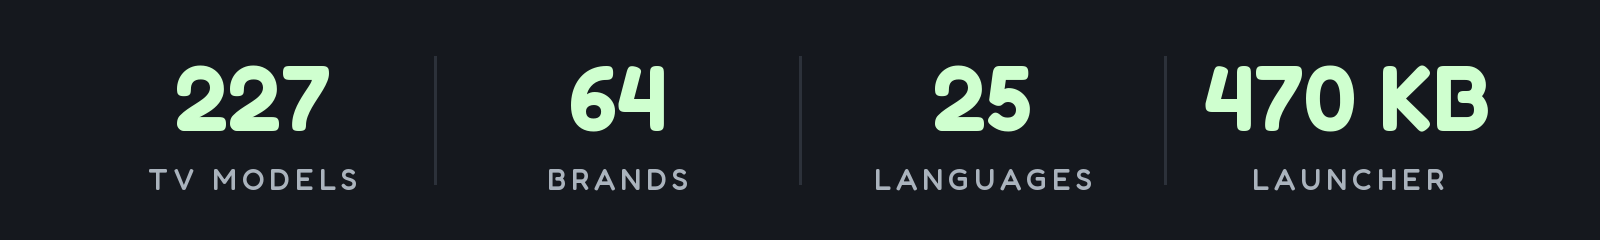
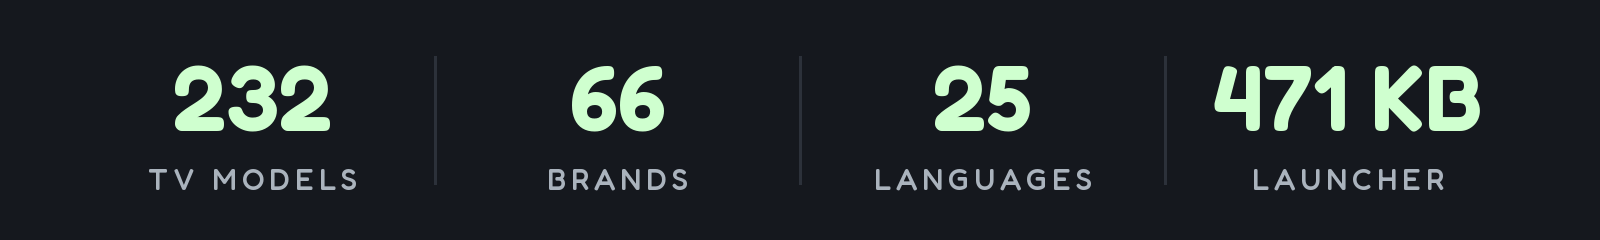
README: counts and card after Round Q (232 TV models, 66 brands, 471 KB launcher)
New brand: Grundig.

Changed region(s): [[0.75, 0.2625, 0.9375, 0.5542], [0.0938, 0.2625, 0.2188, 0.5542], [0.375, 0.2625, 0.4375, 0.5542]]

diff --git a/tools/readme_stats.py b/tools/readme_stats.py
@@ -5,7 +5,7 @@ and rebuild the card with tools/readme_card.py. Fredoka is the variable TTF from
 import sys
 from PIL import Image, ImageDraw, ImageFont
 FONT, OUT = sys.argv[1], sys.argv[2]
-STATS = [("227", "TV MODELS"), ("64", "BRANDS"), ("25", "LANGUAGES"), ("470 KB", "LAUNCHER")]
+STATS = [("232", "TV MODELS"), ("66", "BRANDS"), ("25", "LANGUAGES"), ("471 KB", "LAUNCHER")]
 W, H = 1600, 240
 img = Image.new("RGB", (W, H), "#15181e"); d = ImageDraw.Draw(img)
 def f(size, wt):
